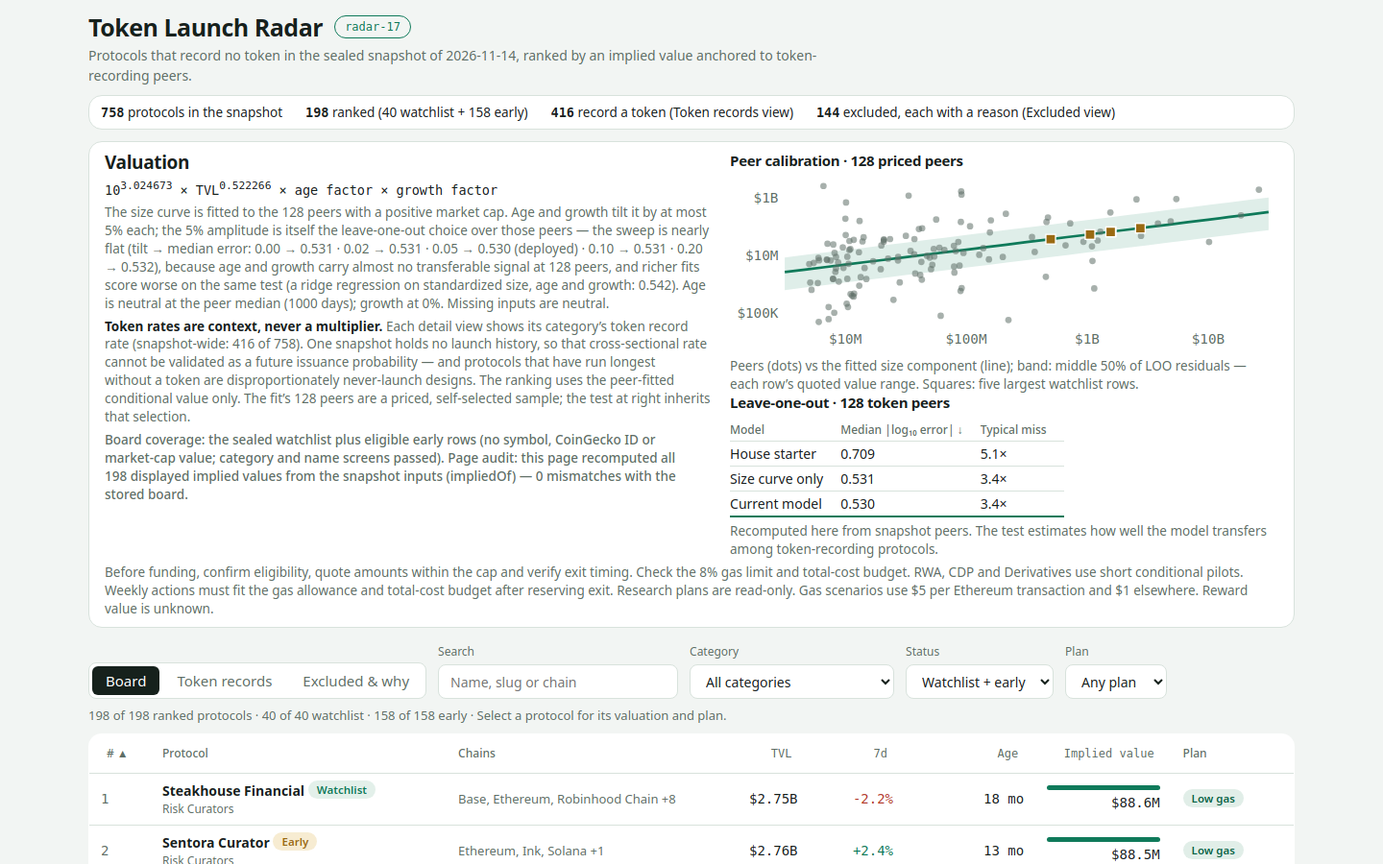
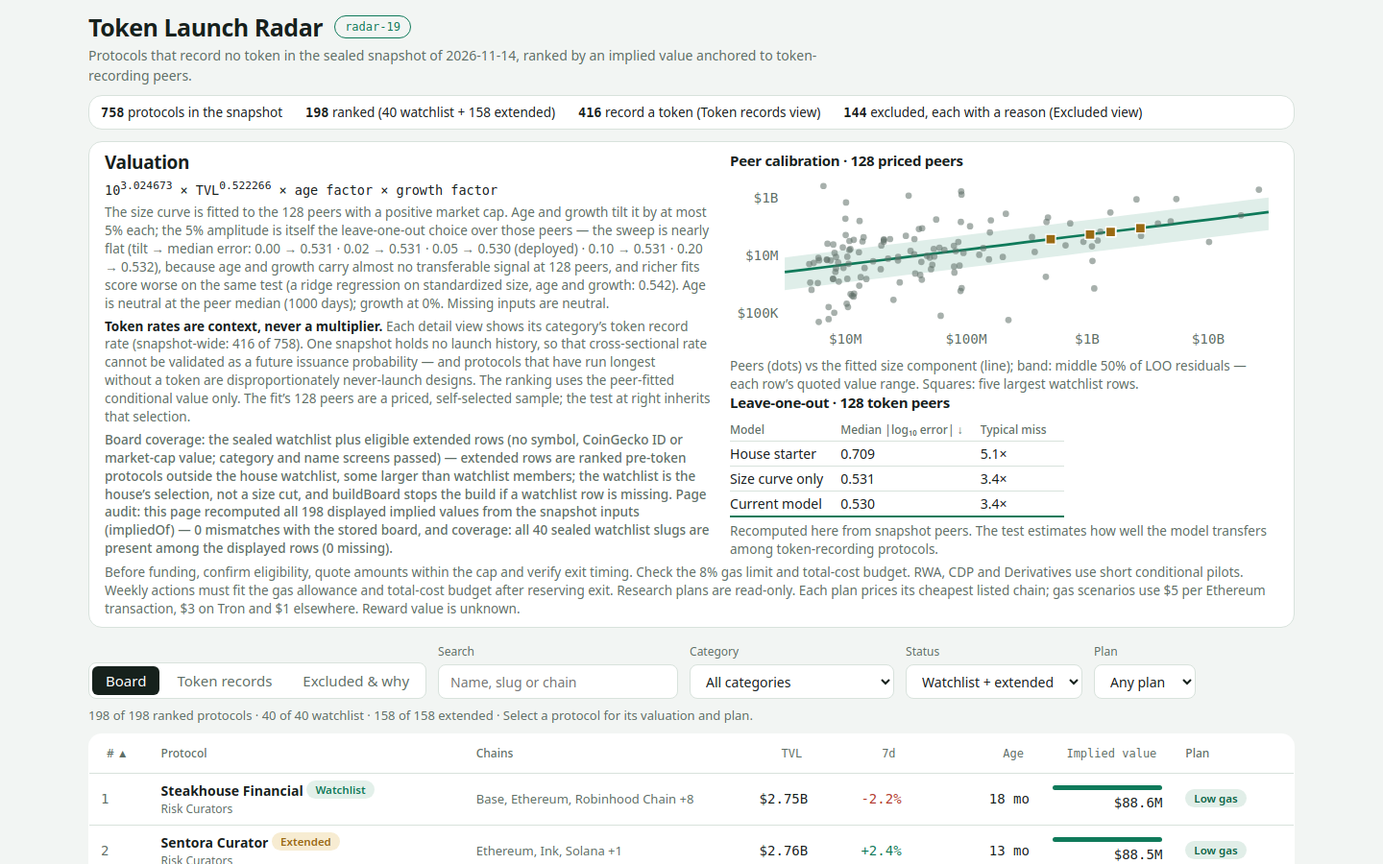
radar-19: cheapest-chain farm pricing + judge-visible coverage audit (watchlist_slugs in data.js, auditValues slug check)

diff --git a/dashboard/app.js b/dashboard/app.js
@@ -1,4 +1,4 @@
-// Radar-17 renders snapshot data, with the valuation, peer test and plans mirrored below.
+// Radar-19 renders snapshot data, with the valuation, peer test and plans mirrored below.
 //
 // How this page answers the bounty rubric, criterion by criterion:
 // 1. Working radar - buildBoard's ranking is shipped as data.js; render() shows the
@@ -246,7 +246,7 @@
       case 'CDP':
       case 'CDP Manager':
         return {
-          check: 'Find an open-and-repay flow. Set collateral, the smallest supported debt and a repayment reserve within the cap. Check the oracle, minimums and interest. At those amounts, require a 30% collateral price drop to leave the position above liquidation and confirm repayment fits the budget.',
+          check: 'Find an open-and-repay flow. Set collateral, the smallest supported debt and a repayment reserve within the cap. Check the oracle, minimums and interest. At those amounts, require a 30% collateral drop to leave the position above liquidation and confirm repayment fits the budget.',
           entry: 'Set aside the checked repayment reserve. Post the checked collateral, mint the checked debt and keep it available for repayment.',
           monitor: 'Check collateral ratio and accrued interest daily. Repay early if the position fails the original stress check.',
           exit: 'Repay principal and interest, then withdraw collateral. Confirm the app shows zero debt.',
@@ -300,11 +300,16 @@
   }
 
   function gasFor(chain) {
-    return chain === 'Ethereum' ? 5 : 1;
+    if (chain === 'Ethereum') return 5;
+    if (chain === 'Tron') return 3;
+    return 1;
   }
 
   function farmMath(p, age) {
-    const chain = p.chains[0] ?? null;
+    const firstChain = p.chains[0] ?? null;
+    const chain = p.chains.length
+      ? p.chains.reduce((a, b) => (gasFor(b) < gasFor(a) ? b : a))
+      : null;
     const route = chain ? routeFor(p.category) : null;
     const capital = route ? capitalFor(p) : 0;
     const gas = gasFor(chain);
@@ -323,12 +328,26 @@
     const burdenPct = capital ? Math.round(fees / capital * 1000) / 10 : 0;
     const verdict = !route ? 'Research' : coreFees * 100 <= capital * 8 ? 'Low gas' : 'High gas';
     const farmSize = route ? Math.ceil(coreFees * 100 / 8) : 0;
-    const altChain = route ? (p.chains.find((c) => gasFor(c) < gas) ?? null) : null;
-    const altFees = altChain ? gasFor(altChain) * coreTxs : 0;
-    const scenarioChain = p.chains.length
-      ? p.chains.reduce((a, b) => (gasFor(b) < gasFor(a) ? b : a))
-      : null;
-    return { chain, route, pilot, capital, gas, entryTxs, exitTxs, coreFees, reviewWeeks, weeklyTxs, transactions, fees, burdenPct, verdict, hold, farmSize, altChain, altFees, scenarioChain };
+    const scenarioChain = chain;
+    return { chain, firstChain, route, pilot, capital, gas, entryTxs, exitTxs, coreFees, reviewWeeks, weeklyTxs, transactions, fees, burdenPct, verdict, hold, farmSize, scenarioChain };
+  }
+
+  function costWatch(category) {
+    switch (category) {
+      case 'CDP':
+      case 'CDP Manager':
+        return 'debt interest accrues while the position is open';
+      case 'Derivatives':
+        return 'funding payments and spread apply while the position is open';
+      case 'Dexs':
+        return 'slippage and impermanent loss apply beyond gas';
+      case 'RWA':
+        return 'subscription and redemption fees and identity checks apply beyond gas';
+      case 'Lending':
+        return 'utilisation can delay withdrawal even though gas is small';
+      default:
+        return 'funding, bridging, spread and protocol fees apply beyond gas where the route uses them';
+    }
   }
 
   function stepText(step) {
@@ -347,13 +366,11 @@
       { text: 'Look for published rewards or points terms. Record what they say, or log that you found no published terms.', cost: '$0', time: '10 min' },
       { text: 'Log the available action, minimum and exit terms, and what evidence would upgrade this row to a costed plan. Recheck at the next weekly review.', cost: '$0', time: '5 min' },
     ];
-    const alternate = m.altChain
-      ? ` If the app confirms the same route on ${m.altChain}, its entry and exit gas scenario is $${m.altFees} (${(100 * m.altFees / m.capital).toFixed(1)}% of the same position).`
-      : '';
     const verdictText = `Verdict: ${m.verdict}. Modeled gas is $${m.fees} (${m.burdenPct}% of the $${m.capital} position) across ${m.transactions} transactions.` +
       (m.weeklyTxs ? ` Entry and exit account for $${m.coreFees}; weekly actions are optional.` : '') +
       ' Rewards are unknown.' +
-      (m.verdict === 'High gas' ? ` The 8% gas line for entry and exit on ${chain} would require $${m.farmSize}, above this plan’s position cap.${alternate}` : '');
+      (m.verdict === 'High gas' ? ` The 8% gas line for entry and exit on ${chain} would require $${m.farmSize}, above this plan’s position cap. ${chain} is already the cheapest listed chain in the modeled tiers, so no listed chain lowers it.` : '') +
+      ` Beyond gas: ${costWatch(p.category)} — the snapshot prices none of these, so verify them in the app before funding.`;
     const horizon = p.category === 'RWA' ? '7-day review, with return of funds by your verified deadline' :
       m.pilot ? `up to ${m.hold} ${m.hold === 1 ? 'day' : 'days'}` : `${m.hold} days (age-based scenario)`;
     const exitTiming = p.category === 'RWA'
@@ -365,8 +382,8 @@
       ? { text: `Review participation terms weekly through week ${m.reviewWeeks} or until exit starts, whichever comes first. Sign at most once per week and ${m.weeklyTxs} times total. Confirm eligibility and room within the cap. Before signing, check whether the action would delay exit and skip it if so. Requote the action and exit. Include costs already incurred and both quotes. Skip if gas exceeds 8% of the actual position or total costs exceed your budget.`, cost: `up to $${m.gas * m.weeklyTxs} scenario gas for ${m.weeklyTxs} optional transactions`, time: '10 min a week' }
       : { text: `Keep participation checks read-only through week ${m.reviewWeeks} or until exit starts, whichever comes first. Record any published terms and eligibility.`, cost: '$0', time: '10 min a week' };
     return [
-      { text: `Verify ${p.name} lists this route on ${chain}. Set a position size within the $${m.capital} cap. ${m.route.check} Check minimums and quote entry and exit at those amounts. Stay read-only if gas exceeds 8% at that size or total costs exceed your budget.`, cost: '$0', time: '20 min' },
-      { text: `${exitTiming} Confirm official participation terms and your eligibility. Stay read-only if timing or eligibility is unverified.`, cost: '$0', time: '5 min before entry' },
+      { text: `Verify ${p.name} lists this route on ${chain}. Set a size within the $${m.capital} cap. ${m.route.check} Quote entry and exit at those amounts.${m.firstChain && m.firstChain !== chain ? ` If it is not offered there, reprice the plan on ${m.firstChain} before funding.` : ''} Stay read-only if gas exceeds 8% at that size or total costs exceed budget.`, cost: '$0', time: '20 min' },
+      { text: `${exitTiming} Confirm official participation terms and your eligibility. Confirm the wallet holds the position assets and ${chain} gas token, or price the bridge in first. Stay read-only if timing or eligibility is unverified.`, cost: '$0', time: '5 min before entry' },
       { text: `Reserve the quoted exit gas first. Use the position size checked before entry. ${m.route.entry} Save the receipts.`, cost: `up to $${m.gas * m.entryTxs} scenario gas for ${m.entryTxs} transactions incl. approvals`, time: '15 min active, plus settlement if required' },
       ...(followUp ? [followUp] : []),
       { text: `Plan window: ${horizon}. ${m.route.monitor} Recheck exit lead time each review. If it grows, pause optional actions and bring exit forward if possible. Record any rewards shown.`, cost: '$0 gas for read-only checks', time: m.pilot ? '5 min per review' : '5 min weekly' },
@@ -387,11 +404,16 @@
   }
 
   // The page audit: recompute every displayed implied value from the snapshot inputs
-  // with the mirrored model and count disagreements with the stored board values.
+  // with the mirrored model and count disagreements with the stored board values;
+  // then check coverage directly - every slug on the sealed watchlist (carried in
+  // data.js as watchlist_slugs) must be present among the displayed rows.
   function auditValues() {
       var mismatches = 0;
       DATA.rows.forEach(function (r) { if (impliedOf(r) !== r.implied_value_usd) mismatches++; });
-      return { checked: DATA.rows.length, mismatches: mismatches };
+      var present = {};
+      DATA.rows.forEach(function (r) { present[r.slug] = true; });
+      var missing = DATA.watchlist_slugs.filter(function (s) { return !present[s]; });
+      return { checked: DATA.rows.length, mismatches: mismatches, wlTotal: DATA.watchlist_slugs.length, wlMissing: missing.length };
   }
 
   // === end model mirror ===
@@ -407,7 +429,7 @@
     return '<span class="chip verdict-' + v.toLowerCase().replace(' ', '-') + '">' + v + '</span>';
   }
   function statusChip(s) {
-    return s === 'watchlist' ? '<span class="chip chip-watch">Watchlist</span>' : '<span class="chip chip-early">Early</span>';
+    return s === 'watchlist' ? '<span class="chip chip-watch">Watchlist</span>' : '<span class="chip chip-early">Extended</span>';
   }
 
   function headerHTML() {
@@ -417,7 +439,7 @@
       '<p class="sub">Protocols that record no token in the sealed snapshot of ' + esc(DATA.as_of) + ', ranked by an implied value anchored to token-recording peers.</p>' +
       '<div class="accounting" role="note">' +
       '<span><strong>' + a.total + '</strong> protocols in the snapshot</span>' +
-      '<span><strong>' + a.ranked + '</strong> ranked (' + a.watchlist + ' watchlist + ' + a.early + ' early)</span>' +
+      '<span><strong>' + a.ranked + '</strong> ranked (' + a.watchlist + ' watchlist + ' + a.early + ' extended)</span>' +
       '<span><strong>' + a.records_token + '</strong> record a token (Token records view)</span>' +
       '<span><strong>' + a.excluded + '</strong> excluded, each with a reason (Excluded view)</span>' +
       '</div></header>';
@@ -484,14 +506,14 @@
       '<p class="formula">10<sup>' + f.alpha + '</sup> × TVL<sup>' + f.beta + '</sup> × age factor × growth factor</p>' +
       '<p>The size curve is fitted to the ' + v.peers + ' peers with a positive market cap. Age and growth tilt it by at most ' + (100 * TILT) + '% each; the ' + (100 * TILT) + '% amplitude is itself the leave-one-out choice over those peers \u2014 the sweep is nearly flat (tilt \u2192 median error: ' + sweep + '), because age and growth carry almost no transferable signal at ' + v.peers + ' peers, and richer fits score worse on the same test (a ridge regression on standardized size, age and growth: 0.542). Age is neutral at the peer median (' + f.ageAnchor + ' days); growth at 0%. Missing inputs are neutral.</p>' +
       '<p><strong>Token rates are context, never a multiplier.</strong> Each detail view shows its category\u2019s token record rate (snapshot-wide: ' + DATA.accounting.records_token + ' of ' + DATA.accounting.total + '). One snapshot holds no launch history, so that cross-sectional rate cannot be validated as a future issuance probability \u2014 and protocols that have run longest without a token are disproportionately never-launch designs. The ranking uses the peer-fitted conditional value only. The fit\u2019s ' + v.peers + ' peers are a priced, self-selected sample; the test at right inherits that selection.</p>' +
-      '<p class="note audit">Board coverage: the sealed watchlist plus eligible early rows (no symbol, CoinGecko ID or market-cap value; category and name screens passed). Page audit: this page recomputed all ' + audit.checked + ' displayed implied values from the snapshot inputs (impliedOf) \u2014 ' + audit.mismatches + ' mismatches with the stored board.</p></div>' +
+      '<p class="note audit">Board coverage: the sealed watchlist plus eligible extended rows (no symbol, CoinGecko ID or market-cap value; category and name screens passed) \u2014 extended rows are ranked pre-token protocols outside the house watchlist, some larger than watchlist members; the watchlist is the house\u2019s selection, not a size cut, and buildBoard stops the build if a watchlist row is missing. Page audit: this page recomputed all ' + audit.checked + ' displayed implied values from the snapshot inputs (impliedOf) \u2014 ' + audit.mismatches + ' mismatches with the stored board, and coverage: all ' + audit.wlTotal + ' sealed watchlist slugs are present among the displayed rows (' + audit.wlMissing + ' missing).</p></div>' +
       '<div class="validation"><h3>Peer calibration \u00b7 ' + v.peers + ' priced peers</h3>' + calibrationSVG() +
       '<p class="note">Peers (dots) vs the fitted size component (line); band: middle 50% of LOO residuals \u2014 each row\u2019s quoted value range. Squares: five largest watchlist rows.</p>' +
       '<h3>Leave-one-out \u00b7 ' + v.peers + ' token peers</h3>' +
       '<table class="vtable"><thead><tr><th>Model</th><th>Median |log\u2081\u2080 error| \u2193</th><th>Typical miss</th></tr></thead><tbody>' + scores + '</tbody></table>' +
       '<p class="note">Recomputed here from snapshot peers. The test estimates how well the model transfers among token-recording protocols.</p></div>' +
       '</div>' +
-      '<p class="note plans-note">Before funding, confirm eligibility, quote amounts within the cap and verify exit timing. Check the 8% gas limit and total-cost budget. RWA, CDP and Derivatives use short conditional pilots. Weekly actions must fit the gas allowance and total-cost budget after reserving exit. Research plans are read-only. Gas scenarios use $5 per Ethereum transaction and $1 elsewhere. Reward value is unknown.</p></section>';
+      '<p class="note plans-note">Before funding, confirm eligibility, quote amounts within the cap and verify exit timing. Check the 8% gas limit and total-cost budget. RWA, CDP and Derivatives use short conditional pilots. Weekly actions must fit the gas allowance and total-cost budget after reserving exit. Research plans are read-only. Each plan prices its cheapest listed chain; gas scenarios use $5 per Ethereum transaction, $3 on Tron and $1 elsewhere. Reward value is unknown.</p></section>';
   }
 
   function categoriesFor(view) {
@@ -509,7 +531,7 @@
       '<button type="button" data-view="excluded" class="tab" aria-pressed="false">Excluded &amp; why</button></div>' +
       '<label class="search">Search <input id="q" type="search" placeholder="Name, slug or chain" value=""></label>' +
       '<label>Category <select id="cat">' + categoriesFor('board') + '</select></label>' +
-      '<label data-board-filter>Status <select id="status"><option value="all">Watchlist + early</option><option value="watchlist">Watchlist only</option><option value="early">Early only</option></select></label>' +
+      '<label data-board-filter>Status <select id="status"><option value="all">Watchlist + extended</option><option value="watchlist">Watchlist only</option><option value="early">Extended only</option></select></label>' +
       '<label data-board-filter>Plan <select id="verdict"><option value="all">Any plan</option><option>Low gas</option><option>High gas</option><option>Research</option></select></label>' +
       '</div>';
   }
@@ -573,7 +595,7 @@
     var watchlist = rows.filter(r => r.status === 'watchlist').length;
     document.getElementById('board-count').textContent = rows.length + ' of ' + DATA.rows.length + ' ranked protocols · ' +
       watchlist + ' of ' + DATA.accounting.watchlist + ' watchlist · ' +
-      (rows.length - watchlist) + ' of ' + DATA.accounting.early + ' early · Select a protocol for its valuation and plan.';
+      (rows.length - watchlist) + ' of ' + DATA.accounting.early + ' extended · Select a protocol for its valuation and plan.';
     body.querySelectorAll('tr').forEach(function (tr) {
       tr.addEventListener('click', function () { openDetail(tr.getAttribute('data-slug')); });
     });
@@ -649,7 +671,7 @@
       '</tbody></table>' +
       '<h3>' + (fm.pilot ? 'Conditional pilot' : fm.route ? 'Conditional farm plan' : 'Research plan') + '</h3><ol class="steps">' +
       steps.map(function (step) { return '<li>' + esc(step) + '</li>'; }).join('') + '</ol>' +
-      (fm.route ? '<p class="note">The first listed chain is the primary scenario at $' + fm.gas + ' per transaction. Low gas means modeled entry and exit fit within 8% of the position cap. Check total costs separately, including funding, bridging, spread, slippage, funding rates, interest and protocol fees. Reward value is unknown.</p>' : '');
+      (fm.route ? '<p class="note">The priced scenario runs on the cheapest listed chain in the modeled tiers, here at $' + fm.gas + ' per transaction. Low gas means modeled entry and exit fit within 8% of the position cap. Check total costs separately, including funding, bridging, spread, slippage, funding rates, interest and protocol fees. Reward value is unknown.</p>' : '');
     document.body.appendChild(d);
     d.querySelector('.close').addEventListener('click', function () { d.close(); });
     d.addEventListener('click', function (e) { if (e.target === d) d.close(); });

diff --git a/lib/model.ts b/lib/model.ts
@@ -21,7 +21,7 @@ export interface Snapshot {
   watchlist: string[];
 }
 
-export const MODEL_VERSION = 'radar-17';
+export const MODEL_VERSION = 'radar-19';
 /** Maximum number of eligible off-watchlist rows. */
 export const EARLY_ROWS = 160;
 /**
@@ -178,6 +178,7 @@ export interface RadarData {
   peers: PeerRow[];
   validation: Validation;
   accounting: Accounting;
+  watchlist_slugs: string[];
   rows: RadarRow[];
   live: LiveRow[];
   excluded: ExcludedRow[];
@@ -430,7 +431,7 @@ function routeFor(category: string | null): Route | null {
     case 'CDP':
     case 'CDP Manager':
       return {
-        check: 'Find an open-and-repay flow. Set collateral, the smallest supported debt and a repayment reserve within the cap. Check the oracle, minimums and interest. At those amounts, require a 30% collateral price drop to leave the position above liquidation and confirm repayment fits the budget.',
+        check: 'Find an open-and-repay flow. Set collateral, the smallest supported debt and a repayment reserve within the cap. Check the oracle, minimums and interest. At those amounts, require a 30% collateral drop to leave the position above liquidation and confirm repayment fits the budget.',
         entry: 'Set aside the checked repayment reserve. Post the checked collateral, mint the checked debt and keep it available for repayment.',
         monitor: 'Check collateral ratio and accrued interest daily. Repay early if the position fails the original stress check.',
         exit: 'Repay principal and interest, then withdraw collateral. Confirm the app shows zero debt.',
@@ -483,12 +484,24 @@ function holdDays(age: number | null): number {
   return 30;
 }
 
+// Scenario gas per transaction by chain tier. These are planning
+// assumptions, not measurements: Ethereum mainnet is the expensive tier,
+// Tron contract execution is energy-priced and sits between mainnet and
+// the near-free chains, and every other listed chain is modeled at $1.
 function gasFor(chain: string | null): number {
-  return chain === 'Ethereum' ? 5 : 1;
+  if (chain === 'Ethereum') return 5;
+  if (chain === 'Tron') return 3;
+  return 1;
 }
 
 export function farmMath(p: SnapshotProtocol, age: number | null) {
-  const chain = p.chains[0] ?? null;
+  const firstChain = p.chains[0] ?? null;
+  // The priced scenario runs on the cheapest listed chain in the modeled
+  // tiers; step 1 verifies the route is actually offered there and reprices
+  // on the first listed chain when it is not.
+  const chain = p.chains.length
+    ? p.chains.reduce((a, b) => (gasFor(b) < gasFor(a) ? b : a))
+    : null;
   const route = chain ? routeFor(p.category) : null;
   const capital = route ? capitalFor(p) : 0;
   const gas = gasFor(chain);
@@ -507,12 +520,29 @@ export function farmMath(p: SnapshotProtocol, age: number | null) {
   const burdenPct = capital ? Math.round(fees / capital * 1000) / 10 : 0;
   const verdict = !route ? 'Research' : coreFees * 100 <= capital * 8 ? 'Low gas' : 'High gas';
   const farmSize = route ? Math.ceil(coreFees * 100 / 8) : 0;
-  const altChain = route ? (p.chains.find((c) => gasFor(c) < gas) ?? null) : null;
-  const altFees = altChain ? gasFor(altChain) * coreTxs : 0;
-  const scenarioChain = p.chains.length
-    ? p.chains.reduce((a, b) => (gasFor(b) < gasFor(a) ? b : a))
-    : null;
-  return { chain, route, pilot, capital, gas, entryTxs, exitTxs, coreFees, reviewWeeks, weeklyTxs, transactions, fees, burdenPct, verdict, hold, farmSize, altChain, altFees, scenarioChain } as const;
+  const scenarioChain = chain;
+  return { chain, firstChain, route, pilot, capital, gas, entryTxs, exitTxs, coreFees, reviewWeeks, weeklyTxs, transactions, fees, burdenPct, verdict, hold, farmSize, scenarioChain } as const;
+}
+
+// Non-gas costs a reader must expect on top of modeled gas, named per
+// route family. The snapshot carries none of their sizes, so the plans
+// name them and price none of them.
+function costWatch(category: string | null): string {
+  switch (category) {
+    case 'CDP':
+    case 'CDP Manager':
+      return 'debt interest accrues while the position is open';
+    case 'Derivatives':
+      return 'funding payments and spread apply while the position is open';
+    case 'Dexs':
+      return 'slippage and impermanent loss apply beyond gas';
+    case 'RWA':
+      return 'subscription and redemption fees and identity checks apply beyond gas';
+    case 'Lending':
+      return 'utilisation can delay withdrawal even though gas is small';
+    default:
+      return 'funding, bridging, spread and protocol fees apply beyond gas where the route uses them';
+  }
 }
 
 export function stepText(step: FarmStep): string {
@@ -531,13 +561,11 @@ export function farmSteps(p: SnapshotProtocol, age: number | null): FarmStep[] {
     { text: 'Look for published rewards or points terms. Record what they say, or log that you found no published terms.', cost: '$0', time: '10 min' },
     { text: 'Log the available action, minimum and exit terms, and what evidence would upgrade this row to a costed plan. Recheck at the next weekly review.', cost: '$0', time: '5 min' },
   ];
-  const alternate = m.altChain
-    ? ` If the app confirms the same route on ${m.altChain}, its entry and exit gas scenario is $${m.altFees} (${(100 * m.altFees / m.capital).toFixed(1)}% of the same position).`
-    : '';
   const verdictText = `Verdict: ${m.verdict}. Modeled gas is $${m.fees} (${m.burdenPct}% of the $${m.capital} position) across ${m.transactions} transactions.` +
     (m.weeklyTxs ? ` Entry and exit account for $${m.coreFees}; weekly actions are optional.` : '') +
     ' Rewards are unknown.' +
-    (m.verdict === 'High gas' ? ` The 8% gas line for entry and exit on ${chain} would require $${m.farmSize}, above this plan’s position cap.${alternate}` : '');
+    (m.verdict === 'High gas' ? ` The 8% gas line for entry and exit on ${chain} would require $${m.farmSize}, above this plan’s position cap. ${chain} is already the cheapest listed chain in the modeled tiers, so no listed chain lowers it.` : '') +
+    ` Beyond gas: ${costWatch(p.category)} — the snapshot prices none of these, so verify them in the app before funding.`;
   const horizon = p.category === 'RWA' ? '7-day review, with return of funds by your verified deadline' :
     m.pilot ? `up to ${m.hold} ${m.hold === 1 ? 'day' : 'days'}` : `${m.hold} days (age-based scenario)`;
   const exitTiming = p.category === 'RWA'
@@ -549,8 +577,8 @@ export function farmSteps(p: SnapshotProtocol, age: number | null): FarmStep[] {
     ? { text: `Review participation terms weekly through week ${m.reviewWeeks} or until exit starts, whichever comes first. Sign at most once per week and ${m.weeklyTxs} times total. Confirm eligibility and room within the cap. Before signing, check whether the action would delay exit and skip it if so. Requote the action and exit. Include costs already incurred and both quotes. Skip if gas exceeds 8% of the actual position or total costs exceed your budget.`, cost: `up to $${m.gas * m.weeklyTxs} scenario gas for ${m.weeklyTxs} optional transactions`, time: '10 min a week' }
     : { text: `Keep participation checks read-only through week ${m.reviewWeeks} or until exit starts, whichever comes first. Record any published terms and eligibility.`, cost: '$0', time: '10 min a week' };
   return [
-    { text: `Verify ${p.name} lists this route on ${chain}. Set a position size within the $${m.capital} cap. ${m.route.check} Check minimums and quote entry and exit at those amounts. Stay read-only if gas exceeds 8% at that size or total costs exceed your budget.`, cost: '$0', time: '20 min' },
-    { text: `${exitTiming} Confirm official participation terms and your eligibility. Stay read-only if timing or eligibility is unverified.`, cost: '$0', time: '5 min before entry' },
+    { text: `Verify ${p.name} lists this route on ${chain}. Set a size within the $${m.capital} cap. ${m.route.check} Quote entry and exit at those amounts.${m.firstChain && m.firstChain !== chain ? ` If it is not offered there, reprice the plan on ${m.firstChain} before funding.` : ''} Stay read-only if gas exceeds 8% at that size or total costs exceed budget.`, cost: '$0', time: '20 min' },
+    { text: `${exitTiming} Confirm official participation terms and your eligibility. Confirm the wallet holds the position assets and ${chain} gas token, or price the bridge in first. Stay read-only if timing or eligibility is unverified.`, cost: '$0', time: '5 min before entry' },
     { text: `Reserve the quoted exit gas first. Use the position size checked before entry. ${m.route.entry} Save the receipts.`, cost: `up to $${m.gas * m.entryTxs} scenario gas for ${m.entryTxs} transactions incl. approvals`, time: '15 min active, plus settlement if required' },
     ...(followUp ? [followUp] : []),
     { text: `Plan window: ${horizon}. ${m.route.monitor} Recheck exit lead time each review. If it grows, pause optional actions and bring exit forward if possible. Record any rewards shown.`, cost: '$0 gas for read-only checks', time: m.pilot ? '5 min per review' : '5 min weekly' },
@@ -578,6 +606,9 @@ export function buildBoard(snapshot: Snapshot): { board: BoardRow[]; excluded: E
     .sort((a, b) => b.v.implied - a.v.implied || (a.p.slug < b.p.slug ? -1 : 1));
   for (const s of scoredAll.slice(0, EARLY_ROWS)) {
     chosen.set(s.p.slug, s.p);
+  }
+  if (snapshot.watchlist.some((slug) => !chosen.has(slug))) {
+    throw new Error('watchlist coverage failure: a watchlist slug is missing from the snapshot index');
   }
   const scored = [...chosen.values()].map((p) => ({ p, v: impliedValue(p, snapshot.as_of, fit) }));
   scored.sort((a, b) => b.v.implied - a.v.implied || (a.p.slug < b.p.slug ? -1 : 1));
@@ -684,6 +715,7 @@ export function buildRadar(snapshot: Snapshot): { board: BoardRow[]; radar: Rada
     peers: peers.map((p) => ({ slug: p.slug, tvl_usd: p.tvl_usd, mcap_usd: p.mcap_usd!, change_7d: p.change_7d, listed_at: p.listed_at })),
     validation: validateModels(snapshot),
     accounting,
+    watchlist_slugs: [...snapshot.watchlist],
     rows: board.map((r) => ({
       rank: r.rank,
       slug: r.slug,

diff --git a/main.ts b/main.ts
@@ -7,7 +7,7 @@
 //
 // The dashboard is a static page, no framework and no network: dashboard/index.html, dashboard/app.css
 // and dashboard/app.js read /output/data.js, which this program writes from the same board. The model
-// is radar-17 (lib/model.ts): auditable classification of all 758 protocols, a size curve fitted on
+// is radar-19 (lib/model.ts): auditable classification of all 758 protocols, a size curve fitted on
 // the snapshot's own peers with a shipped cross-validation, and farm plans that end in a verdict.
 //
 // Outside the grader's container, MAKEFUN_OUTPUT_DIR stands in for /output:

diff --git a/dashboard/index.html b/dashboard/index.html
@@ -3,7 +3,7 @@
 <head>
 <meta charset="utf-8">
 <meta name="viewport" content="width=device-width, initial-scale=1">
-<title>Token Launch Radar (radar-17): protocols that record no token, ranked by fitted value</title>
+<title>Token Launch Radar (radar-19): protocols that record no token, ranked by fitted value</title>
 <link rel="stylesheet" href="app.css">
 </head>
 <body>
